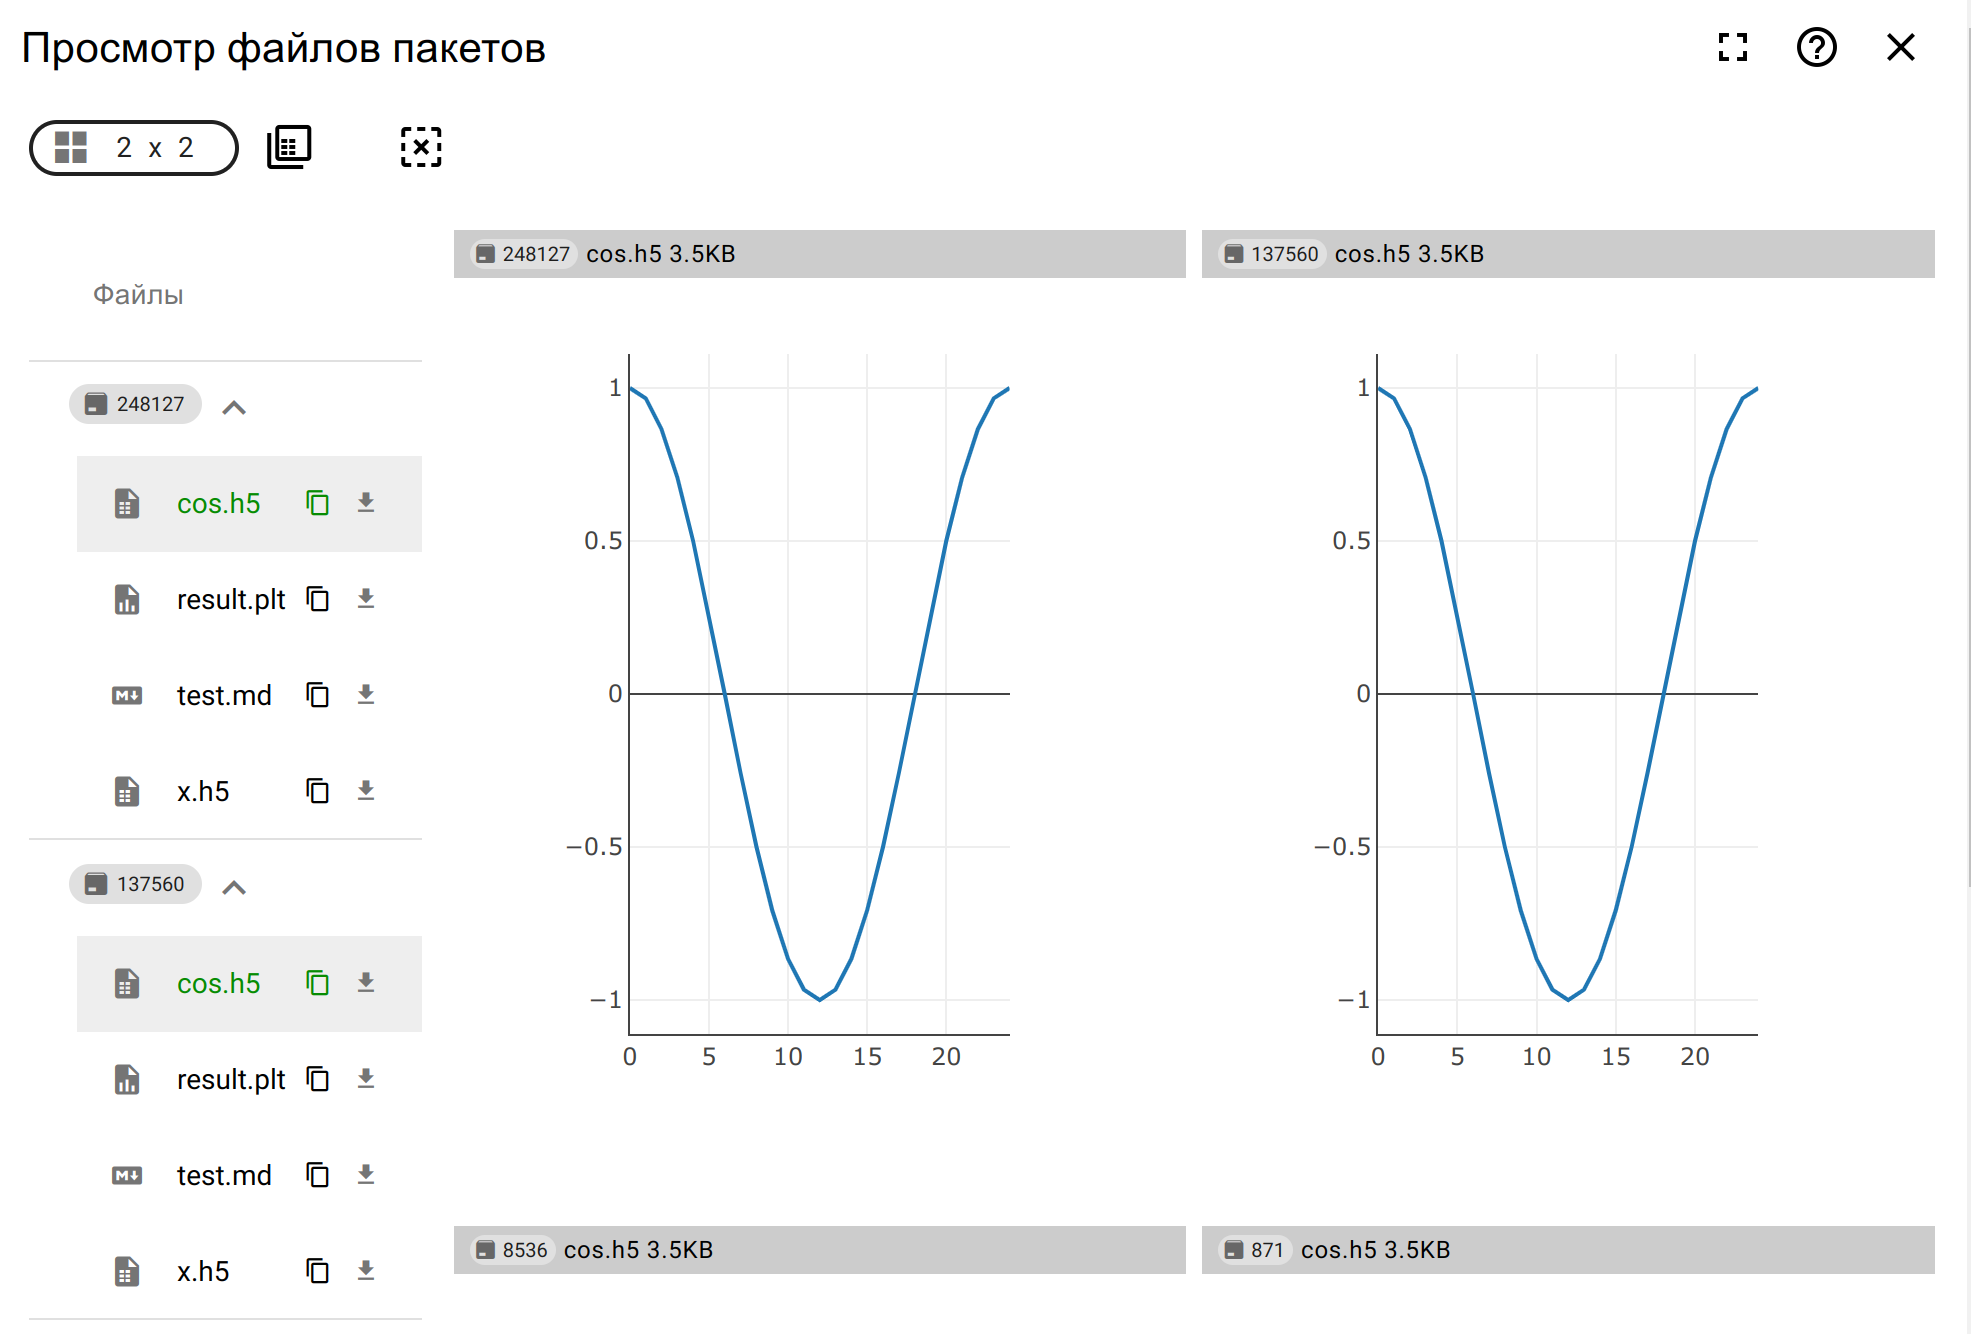
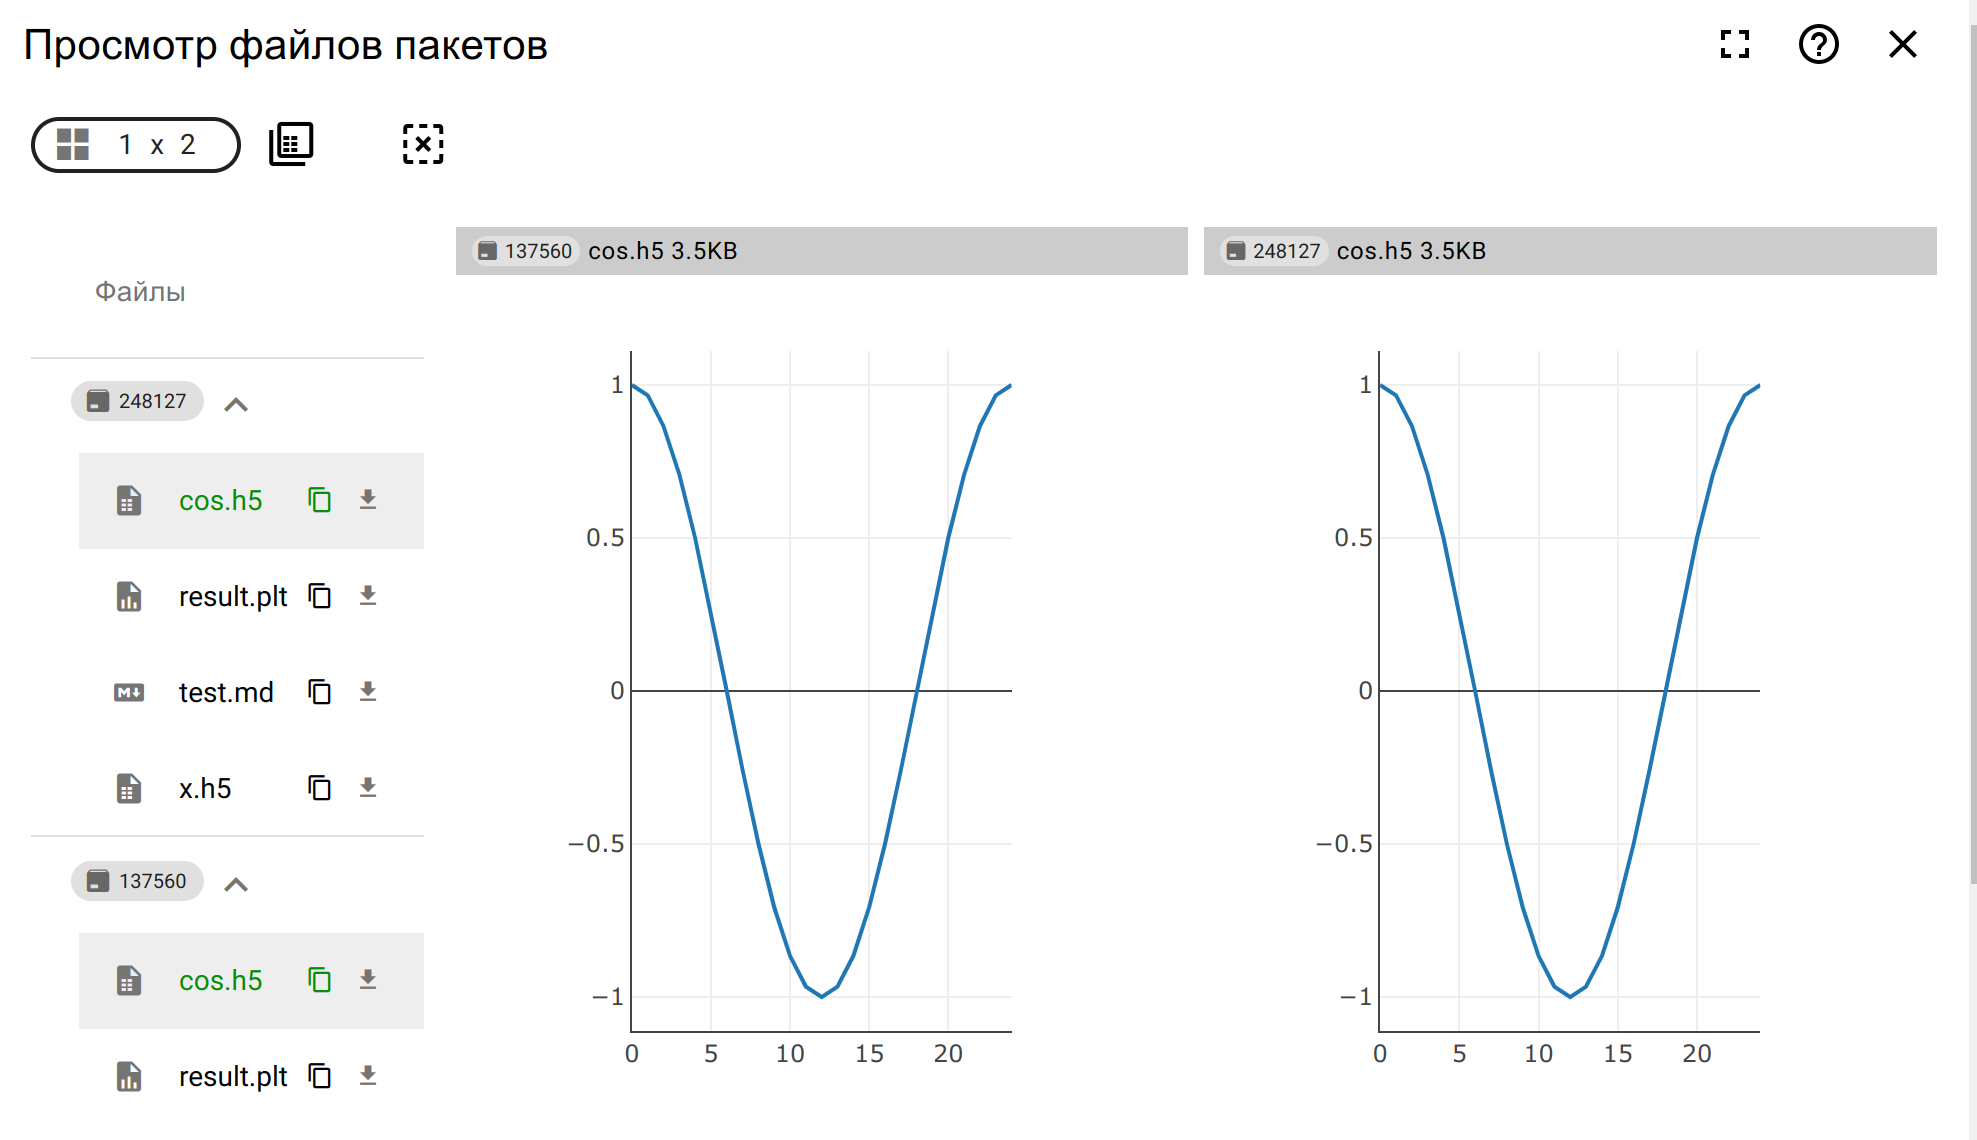
package panel compare v2

diff --git a/src/desc/nodes.md b/src/desc/nodes.md
@@ -403,7 +403,7 @@ Cтруктура:
 - Панель инструментов
 
   - <span style="padding: 0 12px; border: #CCC 1px solid; border-radius: 40px;">
-      <span class='iconify-inline' data-icon='mdi:view-grid'/> <small style="padding: 4px">2 x 2</small>
+      <span class='iconify-inline' data-icon='mdi:view-grid'/> <small style="padding: 4px">1 x 2</small>
     </span> Выбор размера сетки отображения файлов
 
     > Для изменения размерности сетки требуется щелкнуть по столбцу соответствующего измерения 
